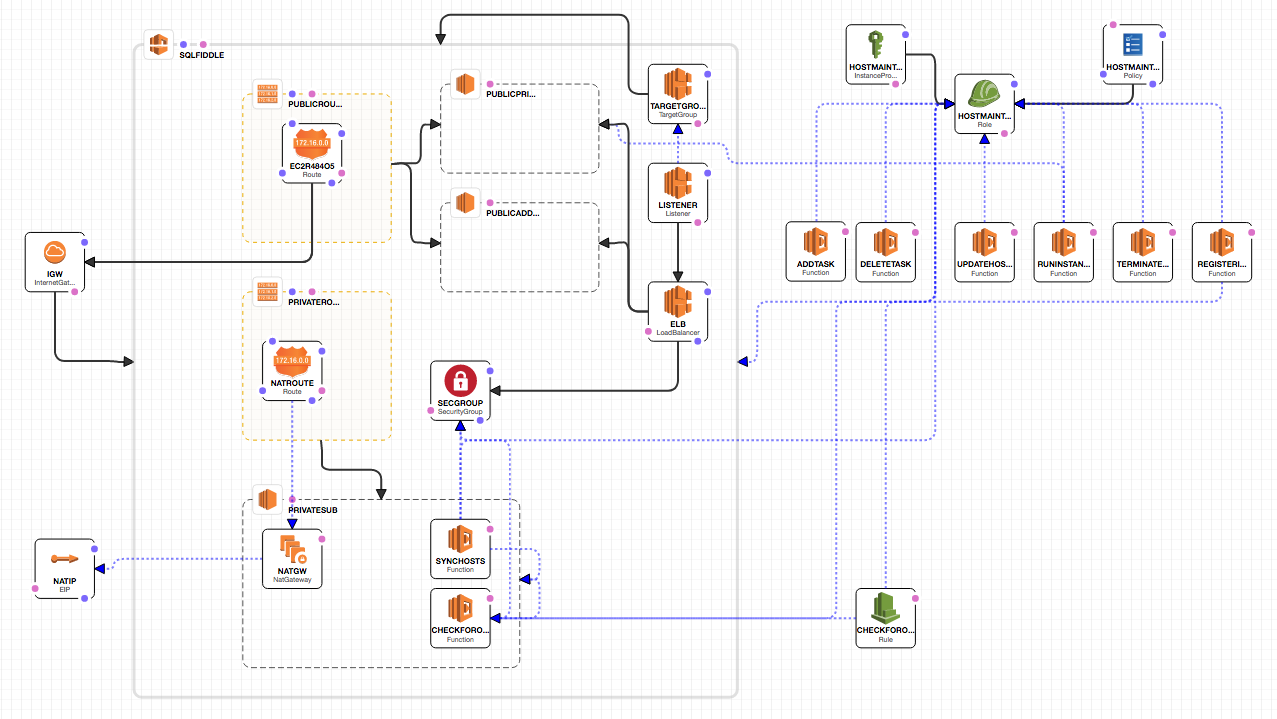
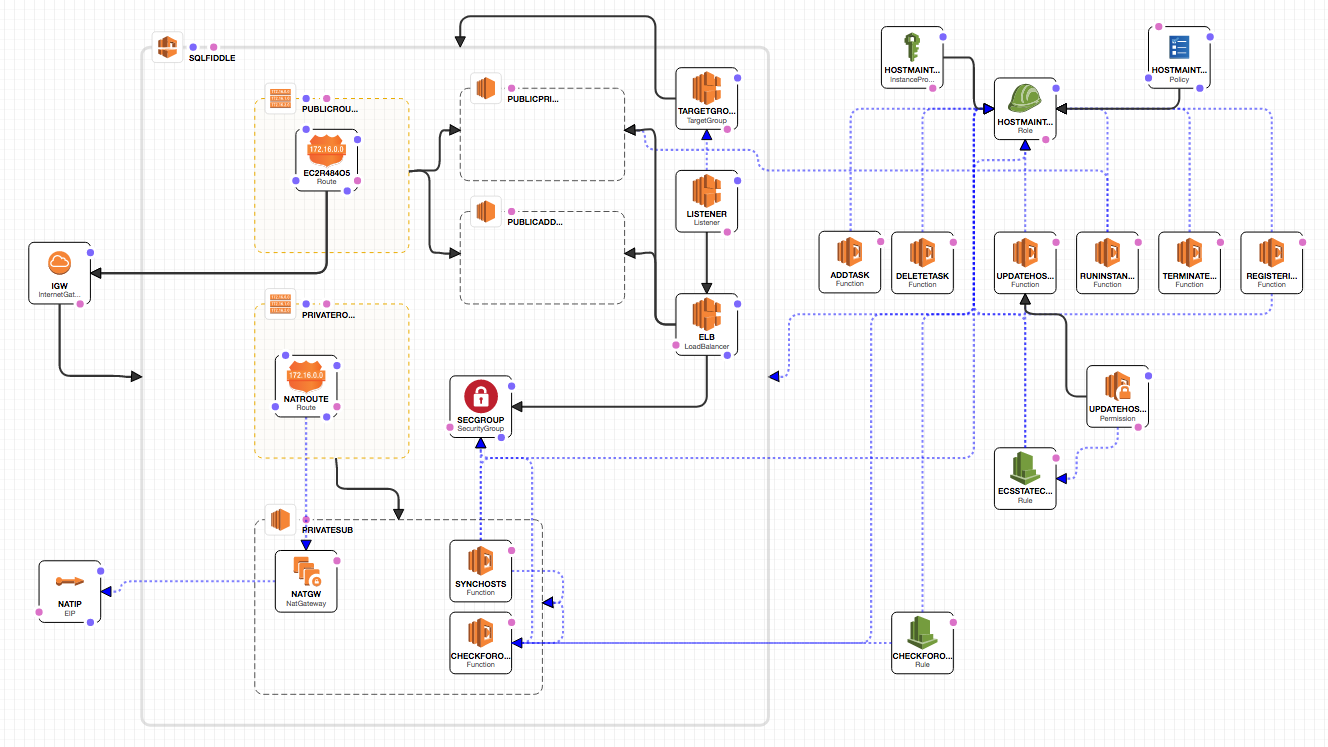
Uses CloudWatch event rule to register ecs tasks, rather than calling API gateway with curl

diff --git a/appServer/src/main/lambda/manageECS.js b/appServer/src/main/lambda/manageECS.js
@@ -60,45 +60,40 @@ exports.deleteTask = (event, context, callback) => {
 
 /**
  * This lambda function is expected to be called from API Gateway
- * event is expected to have this structure:
- {
-   "queryStringParameters": {
-   "containerType": "mysql56Host"
-   }
- }
+ * event is expected to have the value of a taskDefinitionArn, like so:
+
+"arn:aws:ecs:us-west-2:321080263678:task-definition/ecscompose-mysql56:6"
 
 environment variable "CLUSTERNAME" is expected to be set (e.g. sqlfiddle3)
 
-Expected to be called when a new container is brought online or one is taken offline.
+Expected to be called when a new task is brought online or one is taken offline.
  */
 exports.updateHostRegistry = (event, context, callback) => {
     var AWS = require('aws-sdk'),
         lambda = new AWS.Lambda({"apiVersion": '2015-03-31'}),
         cluster = process.env.CLUSTERNAME,
-        containerType = event.queryStringParameters.containerType;
+        taskDefinitionArn = event,
+        serviceName = taskDefinitionArn.split('/').slice(-1)[0].split(":")[0];
 
-    this.getAllHostsForContainerType(cluster, containerType).then((hostConnections) => {
+    this.getAllHostsForContainerType(cluster, taskDefinitionArn)
+    .then((hostConnections) =>
         lambda.invoke({
             FunctionName: "syncHosts",
             Payload: JSON.stringify({
                 hostConnections,
-                hostType: containerType
+                hostType: serviceName
             })
-        }, (err, data) => {
-            callback(null, {
-                "statusCode": 200,
-                "headers": {},
-                "body": data.Payload
-            });
-        });
-
-    });
+        }).promise()
+    )
+    .then((data) =>
+        callback(null, data)
+    );
 };
 
 
 /**
  * @param {String} - cluster - name of the cluster to query, e.g. "sqlfiddle3"
- * @param {String} - containerType - name of the container to search for within the cluster
+ * @param {String} - taskDefinitionArn - arn of the taskDefinition to search for within the cluster
  * @returns {Promise} - promise resolved with a list of ip/port combinations found for this container name, like so:
     [
       {
@@ -109,7 +104,7 @@ exports.updateHostRegistry = (event, context, callback) => {
     ]
  *
  */
-exports.getAllHostsForContainerType = (cluster, containerType) => {
+exports.getAllHostsForContainerType = (cluster, taskDefinitionArn) => {
     var AWS = require('aws-sdk'),
         ecs = new AWS.ECS({"apiVersion": '2014-11-13'}),
         ec2 = new AWS.EC2({"apiVersion": '2016-11-15'});
@@ -119,9 +114,7 @@ exports.getAllHostsForContainerType = (cluster, containerType) => {
     .then((taskDetails) => {
         var containersForName = taskDetails.tasks
             .filter((taskDetail) =>
-                taskDetail.containers.filter(
-                    (container) => container.name === containerType
-                ).length > 0
+                taskDetail.taskDefinitionArn === taskDefinitionArn
             )
             .map((taskDetail) =>
                 taskDetail.containers.map((container) => {

diff --git a/appServer/src/main/lambda/hostMaintenance.js b/appServer/src/main/lambda/hostMaintenance.js
@@ -11,7 +11,7 @@ const postgresConnectionConfig = {
 // ipAddress, port and connection_meta are optional
 var getHostTemplate = (hostType, ipAddress, port, connection_meta) => {
     var hostTemplates = {
-        "mysql56Host": {
+        "ecscompose-mysql56": {
             "full_name": "MySQL 5.6",
             "jdbc_url_template": `jdbc:mysql://${ipAddress}:${port}/#databaseName#?allowMultiQueries=true&useLocalTransactionState=true&useUnicode=true&characterEncoding=UTF-8`,
             "default_database": "mysql",
@@ -19,7 +19,7 @@ var getHostTemplate = (hostType, ipAddress, port, connection_meta) => {
             "admin_password": "password",
             connection_meta
         },
-        "postgresql93Host": {
+        "ecscompose-postgresql93": {
             "full_name": "PostgreSQL 9.3",
             "jdbc_url_template": `jdbc:postgresql://${ipAddress}:${port}/#databaseName#`,
             "default_database": "postgres",
